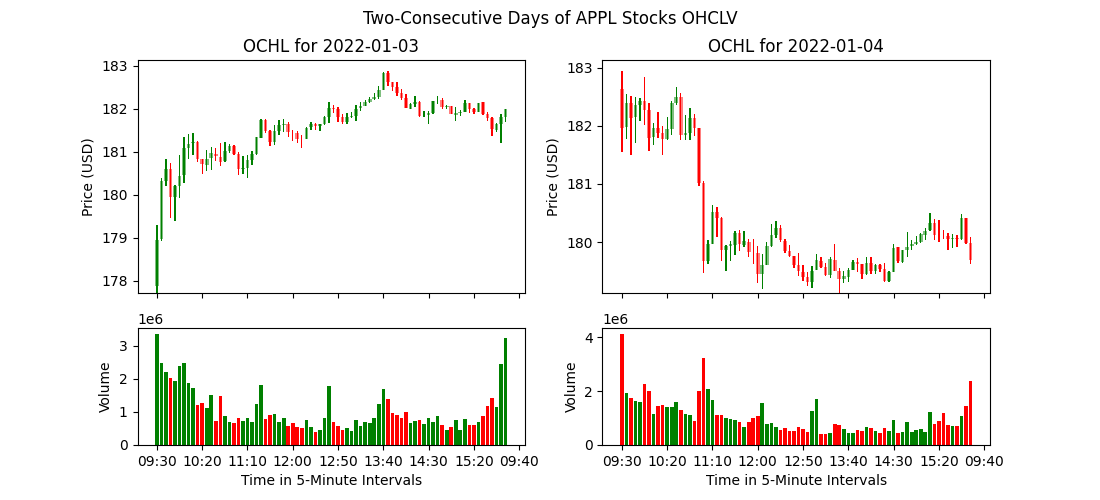
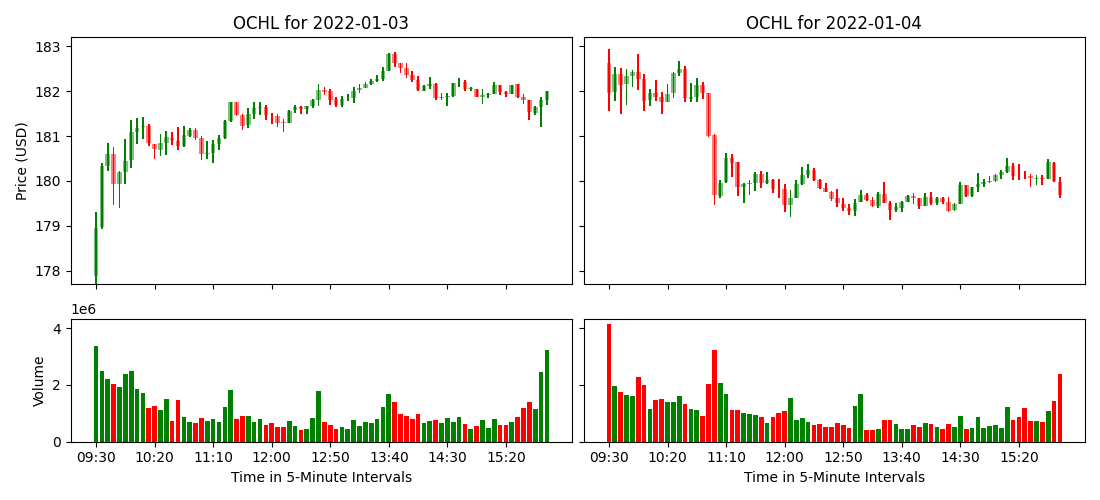
feat: included BACC plot

diff --git a/utils/plots.py b/utils/plots.py
@@ -1,5 +1,7 @@
 import matplotlib.pyplot as plt
 from dataset.load_dataset import *
+import json
+
 
 def download_trade_year(year: int):
     local_dir = download_years_of_parquets([year])
@@ -12,8 +14,10 @@ def candle_stick_plot_one_day(dates, df):
     alpha=0.5
     fig, axs = plt.subplots(2, 2, figsize=(11, 5), 
                             height_ratios=[2, 1],
-                            sharex=True)
-    ticks=range(0, 81, 10)
+                            sharex=True, sharey="row")
+    ticks=range(0, 80, 10)
+    axs[0, 0].set_ylabel("Price (USD)")
+    axs[1, 0].set_ylabel("Volume")
     
     # Candle Stick Plot
     for i in range(2):
@@ -28,7 +32,6 @@ def candle_stick_plot_one_day(dates, df):
         axs[0, i].set_xticklabels(df["time"][ticks])
         axs[0, i].tick_params(axis="x", labelrotation=45)
         axs[0, i].set_title(f"OCHL for {dates[i]}")
-        axs[0, i].set_ylabel("Price (USD)")
         
         # High-Low Bars
         axs[0, i].bar(x=x_idx,
@@ -36,6 +39,7 @@ def candle_stick_plot_one_day(dates, df):
                 bottom=day_df["low"], 
                 width=0.3, 
                 color=color)
+        
         # Open-Close Bar
         axs[0, i].bar(x=x_idx, 
                 height=abs(day_df['open']-day_df["close"]), 
@@ -46,25 +50,71 @@ def candle_stick_plot_one_day(dates, df):
         
         # Volume Plot
         axs[1, i].set_xlabel("Time in 5-Minute Intervals")
-        axs[1, i].set_ylabel("Volume")
         axs[1, i].bar(x=x_idx, height=day_df["volume"], color=color)
         
-    fig.suptitle("Two-Consecutive Days of APPL Stocks OHCLV")
+    plt.tight_layout(w_pad=0.5)
     plt.savefig("figs/two_day_OHCL_plot.png")
-    plt.tight_layout(w_pad=3)
     plt.show()
     return
 
+""" 
+
+"""
+def extract_loss_from_history(json_path):
+    
+    with open(json_path, 'r') as f:
+        history_json = json.load(f)
+    epoch, train_loss, val_loss, train_bacc, val_bacc = [[] for i in range(5)]
+    
+    for i in range(13):
+        entry = history_json[i]
+        epoch.append(entry["epoch"]) 
+        train_loss.append(entry["train"]["loss"])
+        val_loss.append(entry["val"]["loss"])
+        train_bacc.append(entry["train"]["balanced_accuracy"])
+        val_bacc.append(entry["val"]["balanced_accuracy"])
+        
+    data = {
+        "epoch": epoch,
+        "train_loss": train_loss,
+        "val_loss": val_loss,
+        "train_bacc": train_bacc,
+        "val_bacc":  val_bacc
+    }
+    
+    data_df = pd.DataFrame(data)
+    return data_df
+
+
+def plot_loss_clvsa():
+    history_paths = ["plot_data/clvsa_BTC.json", "plot_data/clvsa_AAPL.json"]
+    fig, axs = plt.subplots(1, 2, figsize=(18, 5))
+    
+    for i in range(2):
+        df = extract_loss_from_history(history_paths[i])
+        axs[i].plot(df["epoch"], df["train_bacc"], label="Training BACC")
+        axs[i].plot(df["epoch"], df["val_bacc"], label="Validation BACC")
+        axs[i].set_xlabel("Epochs")
+        axs[i].legend()
+      
+        
+    axs[0].set_title("BTCUSDT Dataset")
+    axs[1].set_title("AAPL Dataset")
+    axs[0].set_ylabel("Balanced Accuracy")
+
+    plt.savefig("figs/bacc_plot.png")
+    plt.show()
+    return 
 
 if __name__ == "__main__":
     file_path = "plot_data/APPL_2022.parquet"
     if not os.path.exists(file_path):
         download_trade_year(2022)
-    
     df = pd.read_parquet(file_path)
     df["timestamp"] = pd.to_datetime(df["timestamp"])
     df["trade_date"] = pd.to_datetime(df["trade_date"])
     df["time"] = df["timestamp"].dt.strftime('%H:%M')
 
-    candle_stick_plot_one_day(["2022-01-03", "2022-01-04"], df)
+    # candle_stick_plot_one_day(["2022-01-03", "2022-01-04"], df)
+    plot_loss_clvsa()
     
